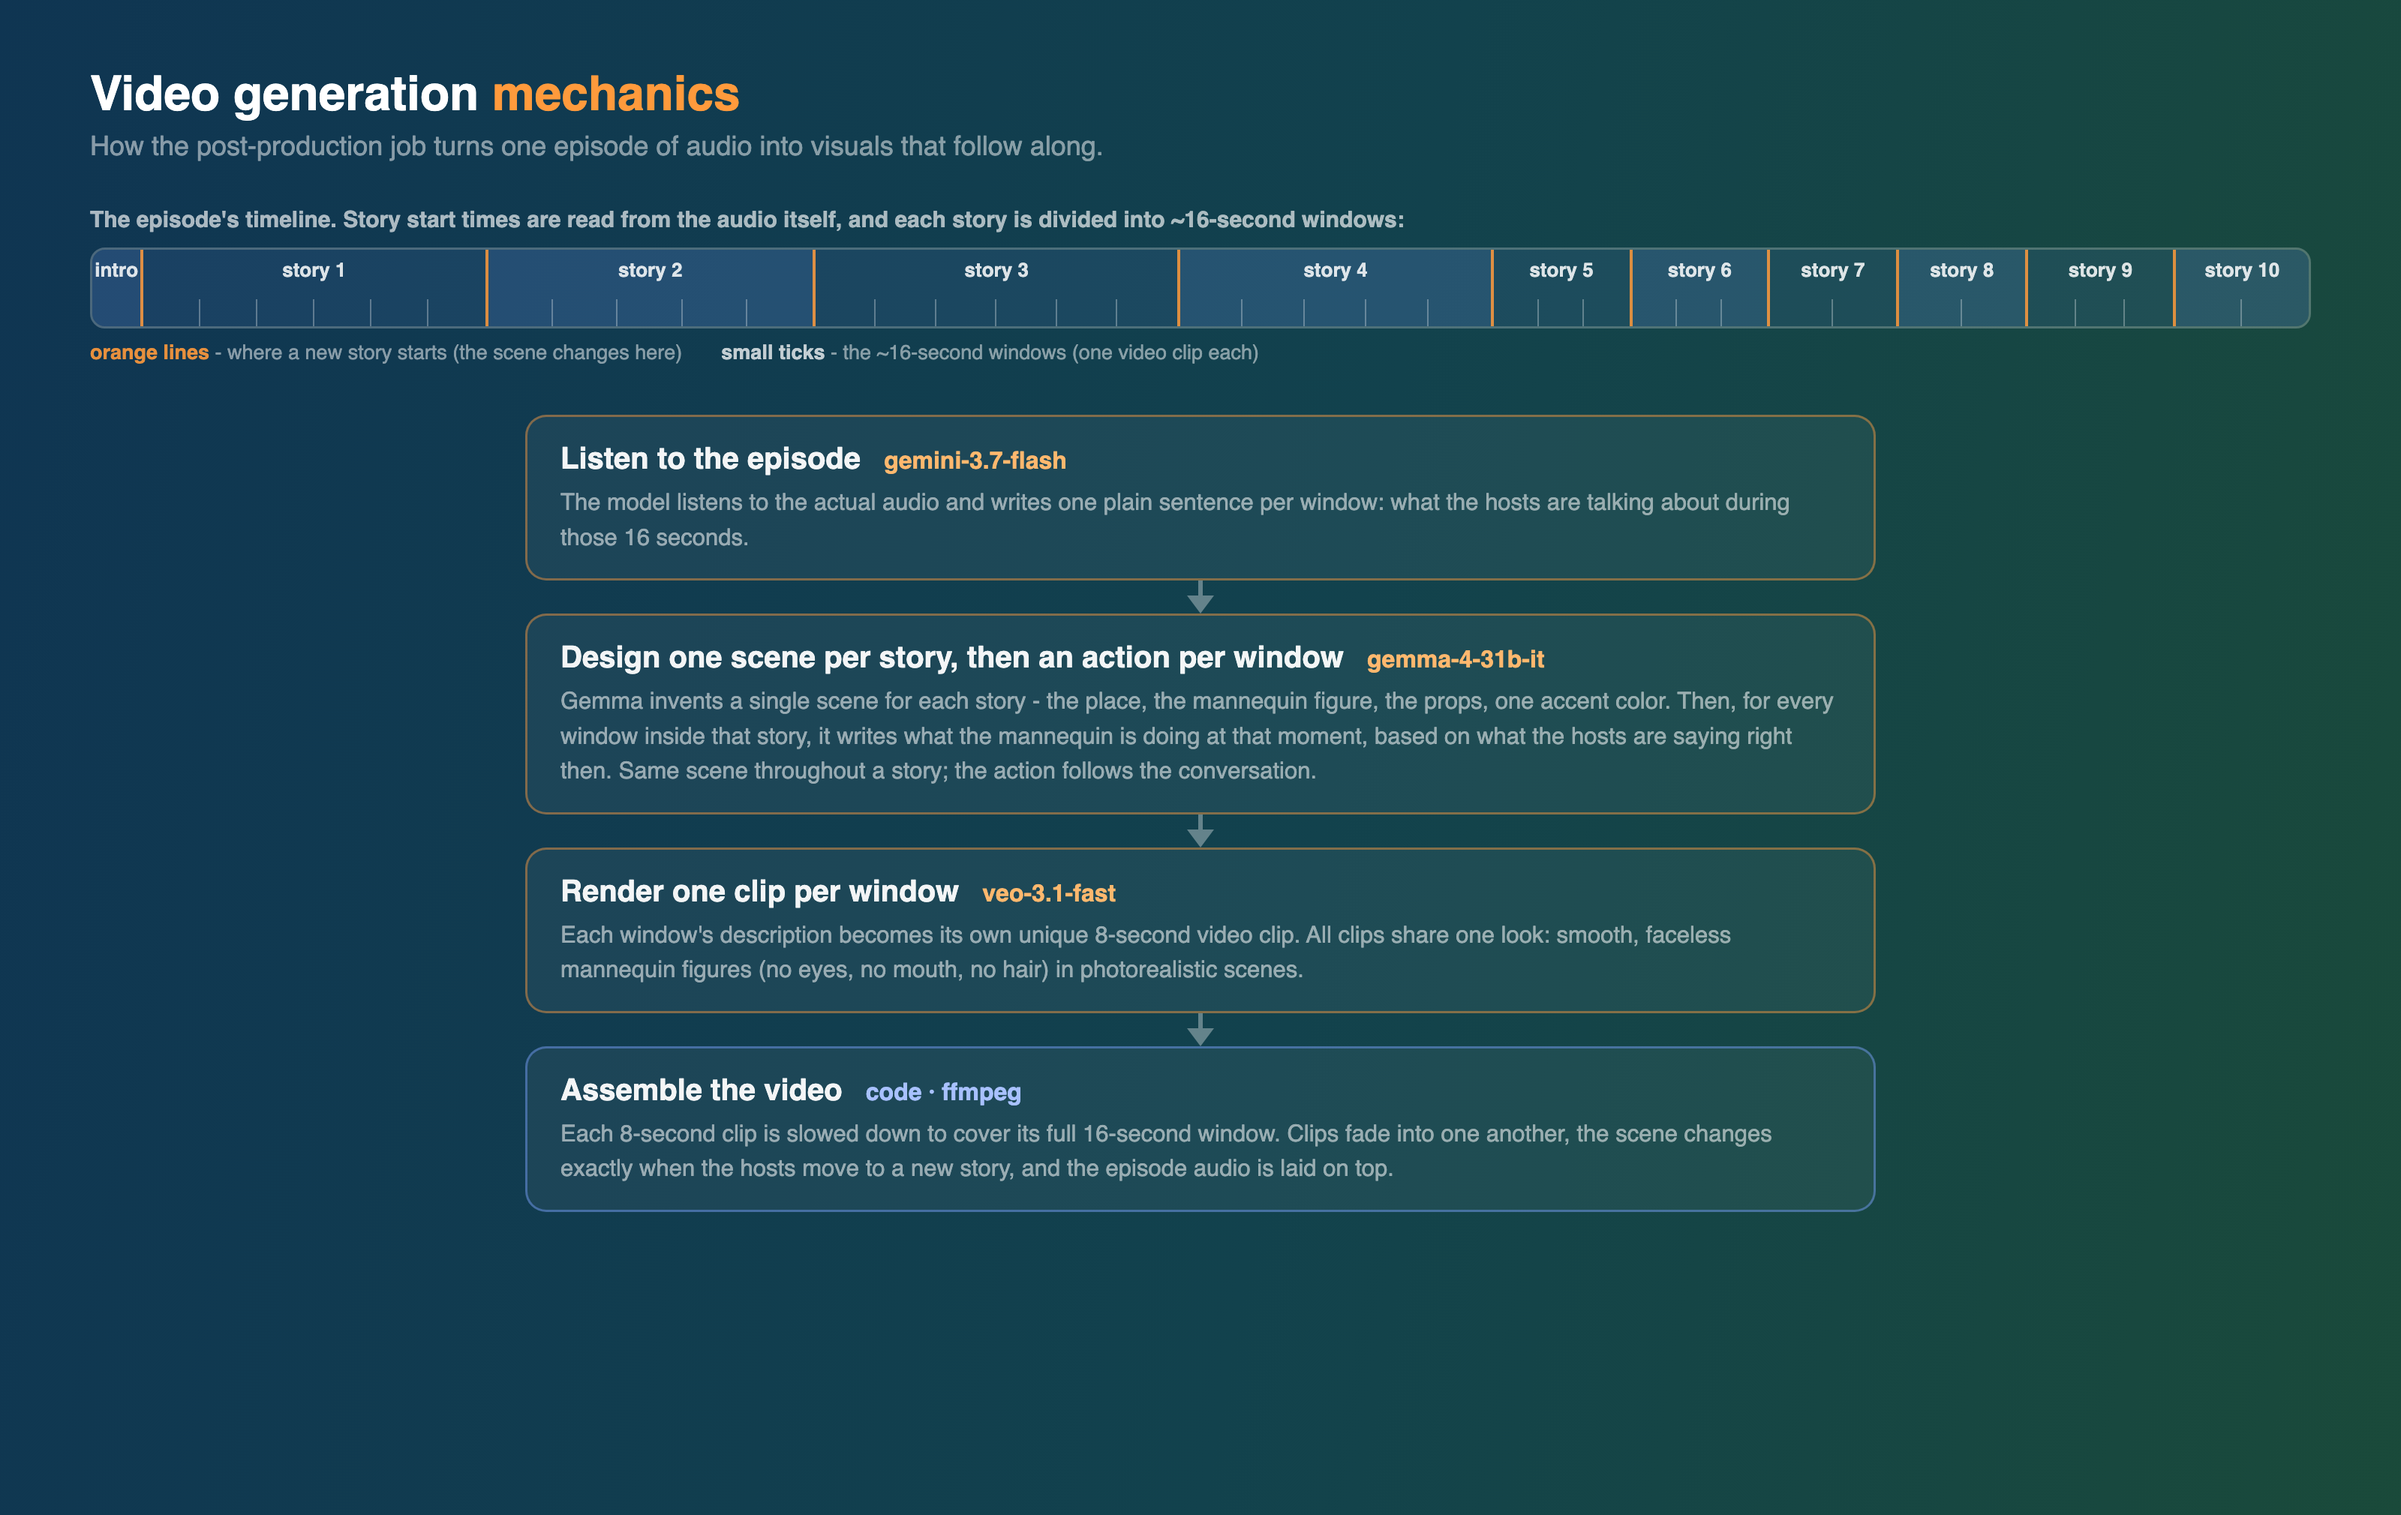
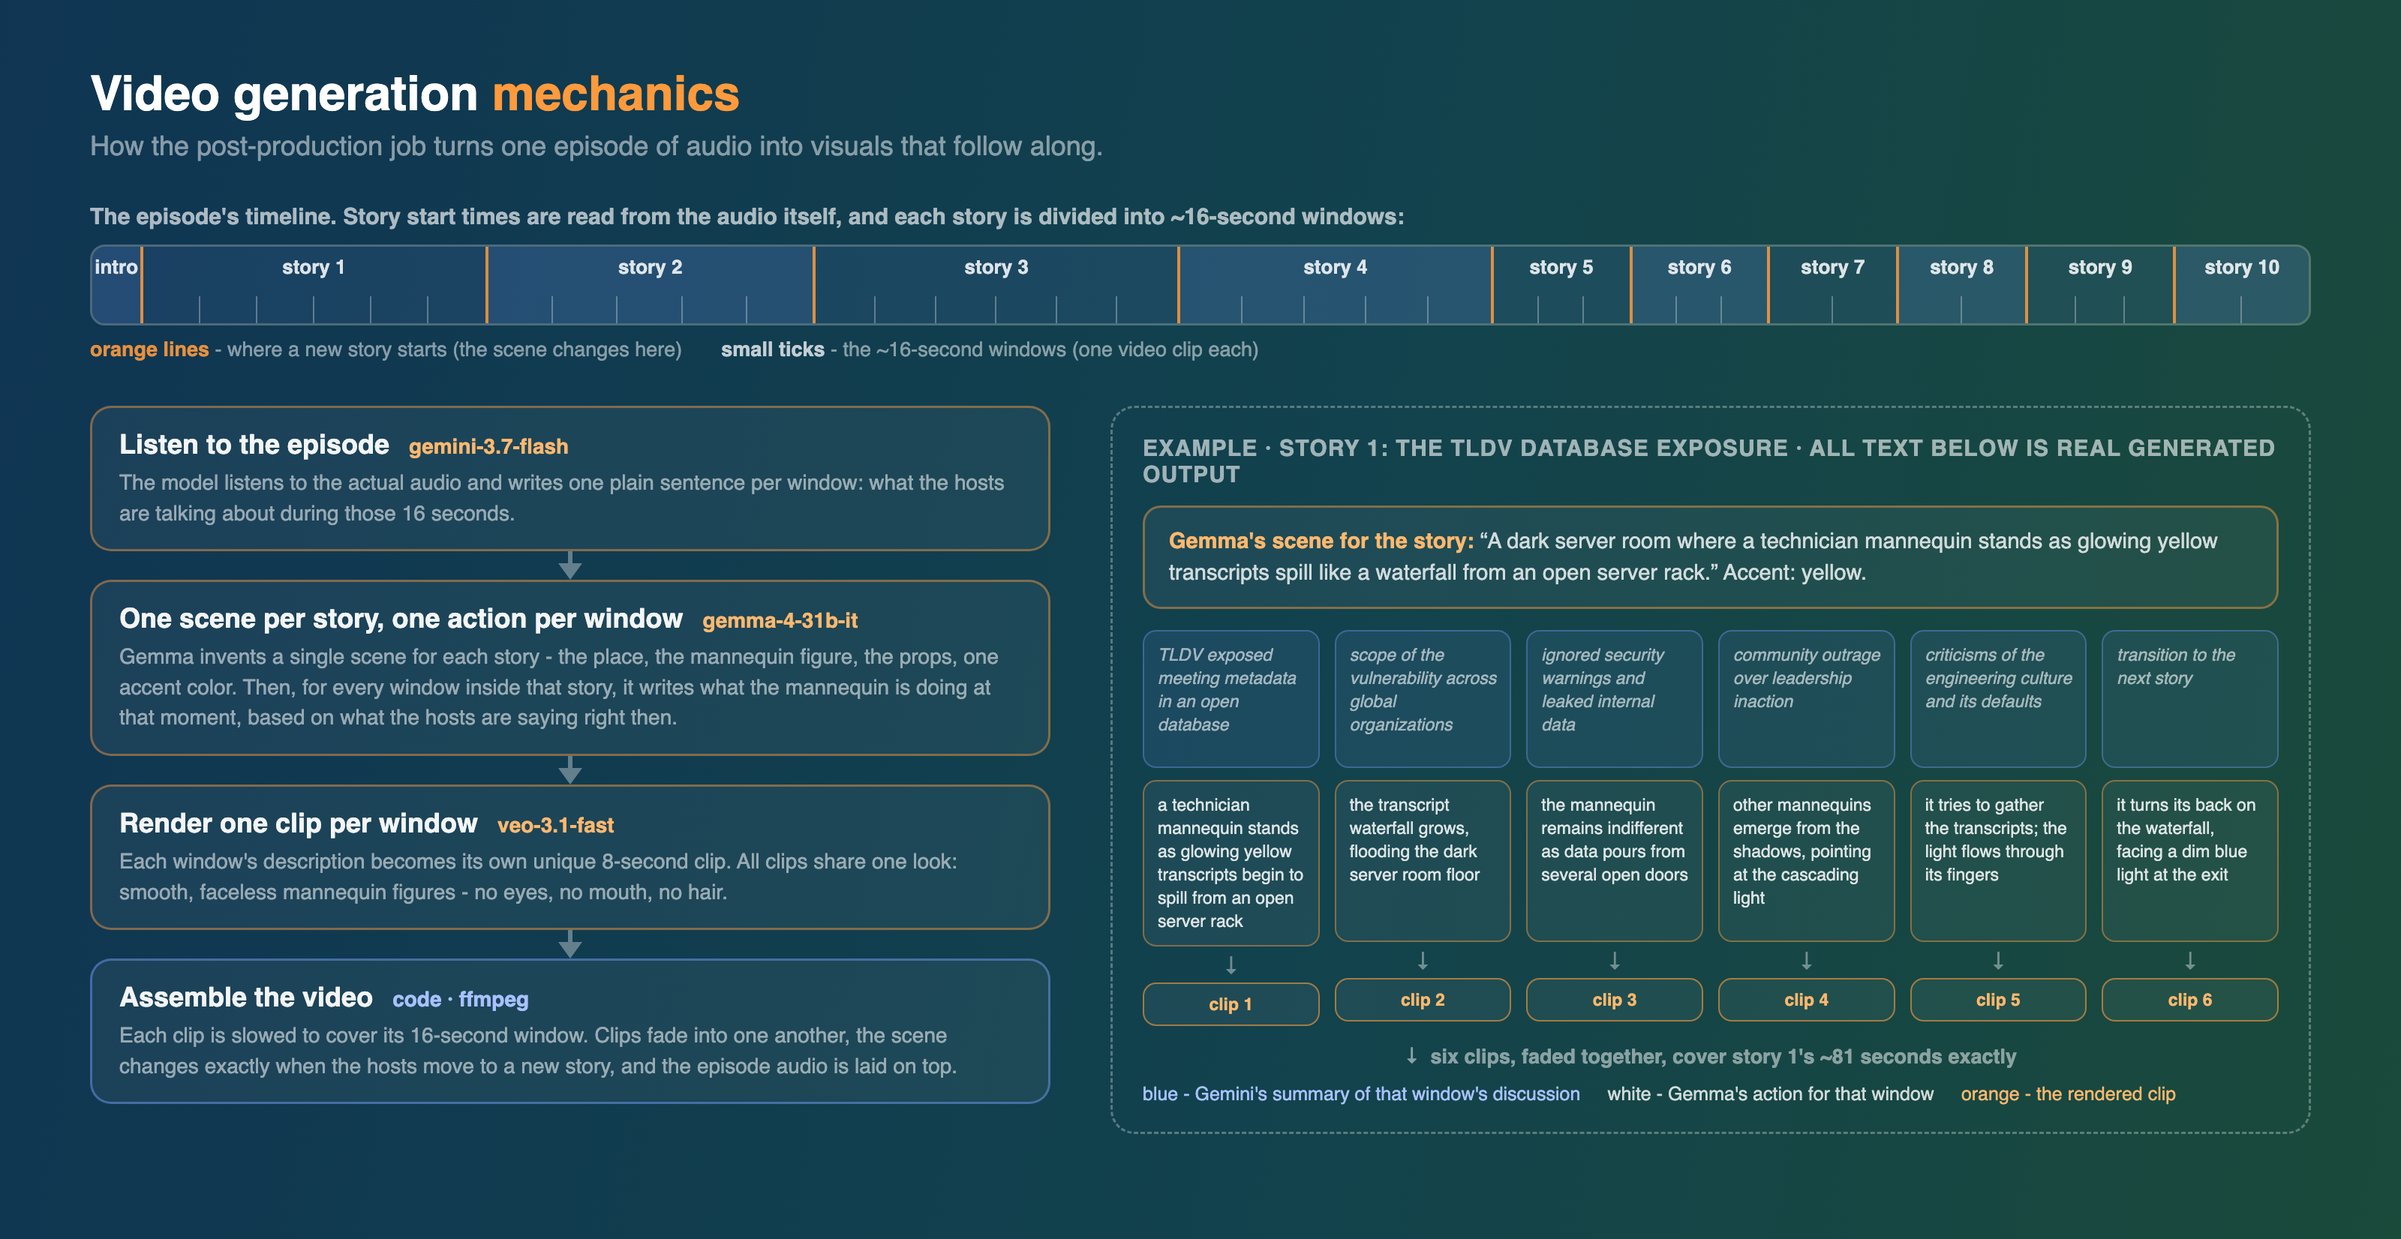
Strip v3: real generated data in the worked example

Changed region(s): [[0.0312, 0.0309, 0.9688, 0.8953], [0.0312, 0.7718, 0.4062, 0.8953], [0.9062, 0.8027, 0.9375, 0.8335]]

diff --git a/assets/architecture-video-strip.html b/assets/architecture-video-strip.html
@@ -2,41 +2,55 @@
 <html lang="en">
 <head>
 <meta charset="UTF-8">
-<title>Video edition flow</title>
+<title>Video generation mechanics</title>
 <link href="https://fonts.googleapis.com/css2?family=Inter:wght@400;500;600;700;800&display=swap" rel="stylesheet">
 <style>
   * { margin: 0; padding: 0; box-sizing: border-box; }
   html, body { font-family: 'Inter', -apple-system, sans-serif; }
-  .cover { position: relative; overflow: hidden; width: 1600px; height: 1010px;
+  .cover { position: relative; overflow: hidden; width: 1600px; height: 826px;
     background: linear-gradient(100deg, #0f3552 0%, #12424d 55%, #1a4a3a 100%); padding: 44px 60px; }
   .head h1 { font-size: 32px; font-weight: 700; color: #fff; }
   .head h1 .hl { color: #ff9a3c; }
   .head p { font-size: 18px; font-weight: 500; color: rgba(255,255,255,0.5); margin-top: 6px; }
-  .tl { margin-top: 30px; }
+  .tl { margin-top: 28px; }
   .tl .cap { font-size: 15px; font-weight: 600; color: rgba(255,255,255,0.65); margin-bottom: 10px; }
-  .bar { display: flex; height: 54px; border-radius: 10px; overflow: hidden;
-    border: 1.5px solid rgba(255,255,255,0.25); }
+  .bar { display: flex; height: 54px; border-radius: 10px; overflow: hidden; border: 1.5px solid rgba(255,255,255,0.25); }
   .seg { position: relative; border-right: 2px solid rgba(255,154,60,0.85); background: rgba(120,160,255,0.10); }
   .seg:nth-child(odd) { background: rgba(120,160,255,0.20); }
   .seg:last-child { border-right: none; }
-  .seg span { position: absolute; top: 6px; left: 0; right: 0; text-align: center;
-    font-size: 13px; font-weight: 600; color: rgba(255,255,255,0.85); }
+  .seg span { position: absolute; top: 6px; left: 0; right: 0; text-align: center; font-size: 13px; font-weight: 600; color: rgba(255,255,255,0.85); }
   .ticks { position: absolute; bottom: 0; left: 0; right: 0; height: 18px; display: flex; }
   .ticks i { border-right: 1px solid rgba(255,255,255,0.3); height: 100%; }
   .ticks i:last-child { border-right: none; }
   .legend { display: flex; gap: 26px; font-size: 13.5px; font-weight: 500; color: rgba(255,255,255,0.5); margin-top: 8px; }
   .legend b { color: rgba(255,154,60,0.9); font-weight: 600; } .legend u { color: rgba(255,255,255,0.75); text-decoration: none; font-weight: 600; }
-  .flow { width: 900px; margin: 34px auto 0; display: flex; flex-direction: column; align-items: stretch; }
-  .node { background: rgba(255,255,255,0.05); border: 1.5px solid rgba(255,154,60,0.45);
-    border-radius: 14px; padding: 16px 22px; }
+  .cols { display: flex; gap: 40px; margin-top: 30px; align-items: flex-start; }
+  .flow { width: 640px; display: flex; flex-direction: column; }
+  .node { background: rgba(255,255,255,0.05); border: 1.5px solid rgba(255,154,60,0.45); border-radius: 14px; padding: 14px 18px; }
   .node.code { border-color: rgba(120,160,255,0.45); }
-  .node .t { font-size: 20px; font-weight: 700; color: rgba(255,255,255,0.95); }
-  .node .t em { font-style: normal; color: #ffb86e; font-weight: 700; font-size: 16px; margin-left: 10px; }
+  .node .t { font-size: 18px; font-weight: 700; color: rgba(255,255,255,0.95); }
+  .node .t em { font-style: normal; color: #ffb86e; font-weight: 700; font-size: 14px; margin-left: 8px; }
   .node.code .t em { color: #a8c1ff; }
-  .node .s { font-size: 15.5px; font-weight: 500; color: rgba(255,255,255,0.55); margin-top: 6px; line-height: 1.5; }
-  .arrow { align-self: center; width: 0; height: 0; border-left: 9px solid transparent;
-    border-right: 9px solid transparent; border-top: 12px solid rgba(255,255,255,0.35); }
-  .stem { align-self: center; width: 3px; background: rgba(255,255,255,0.35); height: 10px; }
+  .node .s { font-size: 14px; font-weight: 500; color: rgba(255,255,255,0.55); margin-top: 5px; line-height: 1.45; }
+  .arrow { align-self: center; width: 0; height: 0; border-left: 8px solid transparent; border-right: 8px solid transparent; border-top: 11px solid rgba(255,255,255,0.35); }
+  .stem { align-self: center; width: 3px; background: rgba(255,255,255,0.35); height: 8px; }
+  .ex { flex: 1; border: 1.5px dashed rgba(255,255,255,0.3); border-radius: 16px; padding: 18px 20px; }
+  .ex .xt { font-size: 15px; font-weight: 700; letter-spacing: 0.04em; text-transform: uppercase; color: rgba(255,255,255,0.6); }
+  .scene { margin-top: 12px; background: rgba(255,255,255,0.05); border: 1.5px solid rgba(255,154,60,0.45); border-radius: 12px; padding: 12px 16px;
+    font-size: 14.5px; color: rgba(255,255,255,0.8); line-height: 1.45; }
+  .scene b { color: #ffb86e; }
+  .lanes { display: flex; gap: 10px; margin-top: 14px; }
+  .lane { flex: 1; display: flex; flex-direction: column; }
+  .said { background: rgba(120,160,255,0.10); border: 1px solid rgba(120,160,255,0.35); border-radius: 9px; padding: 8px 9px;
+    font-size: 11.5px; color: rgba(255,255,255,0.6); font-style: italic; line-height: 1.35; min-height: 92px; }
+  .act { margin-top: 8px; background: rgba(255,255,255,0.05); border: 1px solid rgba(255,154,60,0.45); border-radius: 9px; padding: 8px 9px;
+    font-size: 11.5px; color: rgba(255,255,255,0.85); line-height: 1.35; min-height: 108px; }
+  .dn { text-align: center; color: rgba(255,255,255,0.4); font-size: 15px; margin: 3px 0; }
+  .clip { background: rgba(255,255,255,0.05); border: 1px solid rgba(255,154,60,0.6); border-radius: 9px; padding: 7px 6px;
+    font-size: 11.5px; font-weight: 700; color: #ffb86e; text-align: center; }
+  .merge { margin-top: 12px; text-align: center; color: rgba(255,255,255,0.5); font-size: 13.5px; font-weight: 600; }
+  .keys { display:flex; gap: 18px; margin-top: 10px; font-size: 12.5px; color: rgba(255,255,255,0.5); }
+  .keys .k1 { color: #a8c1ff; } .keys .k2 { color: rgba(255,255,255,0.8); } .keys .k3 { color: #ffb86e; }
 </style>
 </head>
 <body>
@@ -50,18 +64,27 @@
     <div class="bar"><div class="seg" style="width:2.312%"><span>intro</span><div class="ticks"><i style="width:100.000%"></i></div></div><div class="seg" style="width:15.546%"><span>story 1</span><div class="ticks"><i style="width:16.667%"></i><i style="width:16.667%"></i><i style="width:16.667%"></i><i style="width:16.667%"></i><i style="width:16.667%"></i><i style="width:16.667%"></i></div></div><div class="seg" style="width:14.775%"><span>story 2</span><div class="ticks"><i style="width:20.000%"></i><i style="width:20.000%"></i><i style="width:20.000%"></i><i style="width:20.000%"></i><i style="width:20.000%"></i></div></div><div class="seg" style="width:16.470%"><span>story 3</span><div class="ticks"><i style="width:16.667%"></i><i style="width:16.667%"></i><i style="width:16.667%"></i><i style="width:16.667%"></i><i style="width:16.667%"></i><i style="width:16.667%"></i></div></div><div class="seg" style="width:14.120%"><span>story 4</span><div class="ticks"><i style="width:20.000%"></i><i style="width:20.000%"></i><i style="width:20.000%"></i><i style="width:20.000%"></i><i style="width:20.000%"></i></div></div><div class="seg" style="width:6.261%"><span>story 5</span><div class="ticks"><i style="width:33.333%"></i><i style="width:33.333%"></i><i style="width:33.333%"></i></div></div><div class="seg" style="width:6.222%"><span>story 6</span><div class="ticks"><i style="width:33.333%"></i><i style="width:33.333%"></i><i style="width:33.333%"></i></div></div><div class="seg" style="width:5.798%"><span>story 7</span><div class="ticks"><i style="width:50.000%"></i><i style="width:50.000%"></i></div></div><div class="seg" style="width:5.837%"><span>story 8</span><div class="ticks"><i style="width:50.000%"></i><i style="width:50.000%"></i></div></div><div class="seg" style="width:6.665%"><span>story 9</span><div class="ticks"><i style="width:33.333%"></i><i style="width:33.333%"></i><i style="width:33.333%"></i></div></div><div class="seg" style="width:5.995%"><span>story 10</span><div class="ticks"><i style="width:50.000%"></i><i style="width:50.000%"></i></div></div></div>
     <div class="legend"><span><b>orange lines</b> - where a new story starts (the scene changes here)</span><span><u>small ticks</u> - the ~16-second windows (one video clip each)</span></div>
   </div>
-  <div class="flow">
-    <div class="node"><div class="t">Listen to the episode <em>gemini-3.7-flash</em></div>
-      <div class="s">The model listens to the actual audio and writes one plain sentence per window: what the hosts are talking about during those 16 seconds.</div></div>
-    <div class="stem"></div><div class="arrow"></div>
-    <div class="node"><div class="t">Design one scene per story, then an action per window <em>gemma-4-31b-it</em></div>
-      <div class="s">Gemma invents a single scene for each story - the place, the mannequin figure, the props, one accent color. Then, for every window inside that story, it writes what the mannequin is doing at that moment, based on what the hosts are saying right then. Same scene throughout a story; the action follows the conversation.</div></div>
-    <div class="stem"></div><div class="arrow"></div>
-    <div class="node"><div class="t">Render one clip per window <em>veo-3.1-fast</em></div>
-      <div class="s">Each window's description becomes its own unique 8-second video clip. All clips share one look: smooth, faceless mannequin figures (no eyes, no mouth, no hair) in photorealistic scenes.</div></div>
-    <div class="stem"></div><div class="arrow"></div>
-    <div class="node code"><div class="t">Assemble the video <em>code &middot; ffmpeg</em></div>
-      <div class="s">Each 8-second clip is slowed down to cover its full 16-second window. Clips fade into one another, the scene changes exactly when the hosts move to a new story, and the episode audio is laid on top.</div></div>
+  <div class="cols">
+    <div class="flow">
+      <div class="node"><div class="t">Listen to the episode <em>gemini-3.7-flash</em></div>
+        <div class="s">The model listens to the actual audio and writes one plain sentence per window: what the hosts are talking about during those 16 seconds.</div></div>
+      <div class="stem"></div><div class="arrow"></div>
+      <div class="node"><div class="t">One scene per story, one action per window <em>gemma-4-31b-it</em></div>
+        <div class="s">Gemma invents a single scene for each story - the place, the mannequin figure, the props, one accent color. Then, for every window inside that story, it writes what the mannequin is doing at that moment, based on what the hosts are saying right then.</div></div>
+      <div class="stem"></div><div class="arrow"></div>
+      <div class="node"><div class="t">Render one clip per window <em>veo-3.1-fast</em></div>
+        <div class="s">Each window's description becomes its own unique 8-second clip. All clips share one look: smooth, faceless mannequin figures - no eyes, no mouth, no hair.</div></div>
+      <div class="stem"></div><div class="arrow"></div>
+      <div class="node code"><div class="t">Assemble the video <em>code &middot; ffmpeg</em></div>
+        <div class="s">Each clip is slowed to cover its 16-second window. Clips fade into one another, the scene changes exactly when the hosts move to a new story, and the episode audio is laid on top.</div></div>
+    </div>
+    <div class="ex">
+      <div class="xt">Example &middot; story 1: the TLDV database exposure &middot; all text below is real generated output</div>
+      <div class="scene"><b>Gemma's scene for the story:</b> &ldquo;A dark server room where a technician mannequin stands as glowing yellow transcripts spill like a waterfall from an open server rack.&rdquo; Accent: yellow.</div>
+      <div class="lanes"><div class="lane"><div class="said">TLDV exposed meeting metadata in an open database</div><div class="act">a technician mannequin stands as glowing yellow transcripts begin to spill from an open server rack</div><div class="dn">&#8595;</div><div class="clip">clip 1</div></div><div class="lane"><div class="said">scope of the vulnerability across global organizations</div><div class="act">the transcript waterfall grows, flooding the dark server room floor</div><div class="dn">&#8595;</div><div class="clip">clip 2</div></div><div class="lane"><div class="said">ignored security warnings and leaked internal data</div><div class="act">the mannequin remains indifferent as data pours from several open doors</div><div class="dn">&#8595;</div><div class="clip">clip 3</div></div><div class="lane"><div class="said">community outrage over leadership inaction</div><div class="act">other mannequins emerge from the shadows, pointing at the cascading light</div><div class="dn">&#8595;</div><div class="clip">clip 4</div></div><div class="lane"><div class="said">criticisms of the engineering culture and its defaults</div><div class="act">it tries to gather the transcripts; the light flows through its fingers</div><div class="dn">&#8595;</div><div class="clip">clip 5</div></div><div class="lane"><div class="said">transition to the next story</div><div class="act">it turns its back on the waterfall, facing a dim blue light at the exit</div><div class="dn">&#8595;</div><div class="clip">clip 6</div></div></div>
+      <div class="merge">&#8595;&nbsp;&nbsp;six clips, faded together, cover story 1's ~81 seconds exactly</div>
+      <div class="keys"><span class="k1">blue - Gemini's summary of that window's discussion</span><span class="k2">white - Gemma's action for that window</span><span class="k3">orange - the rendered clip</span></div>
+    </div>
   </div>
 </div>
 </body>
